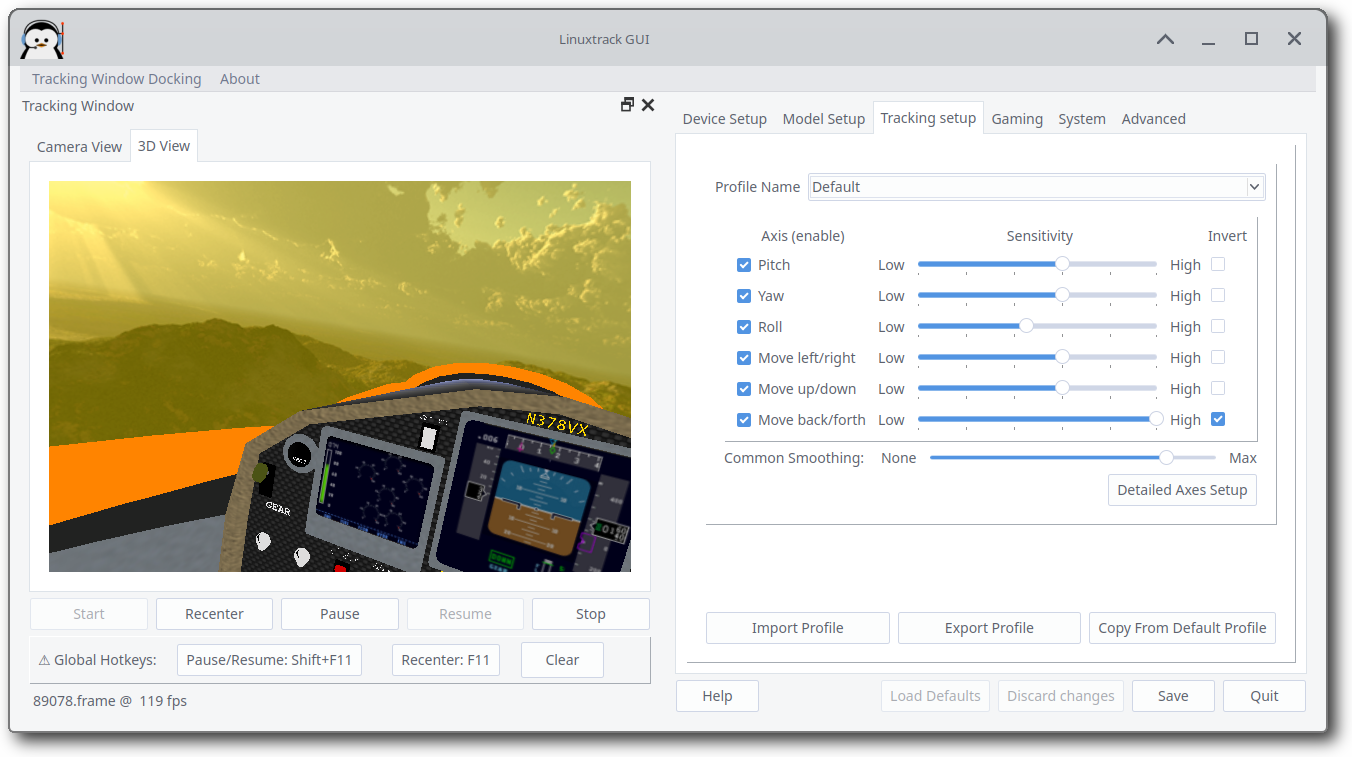
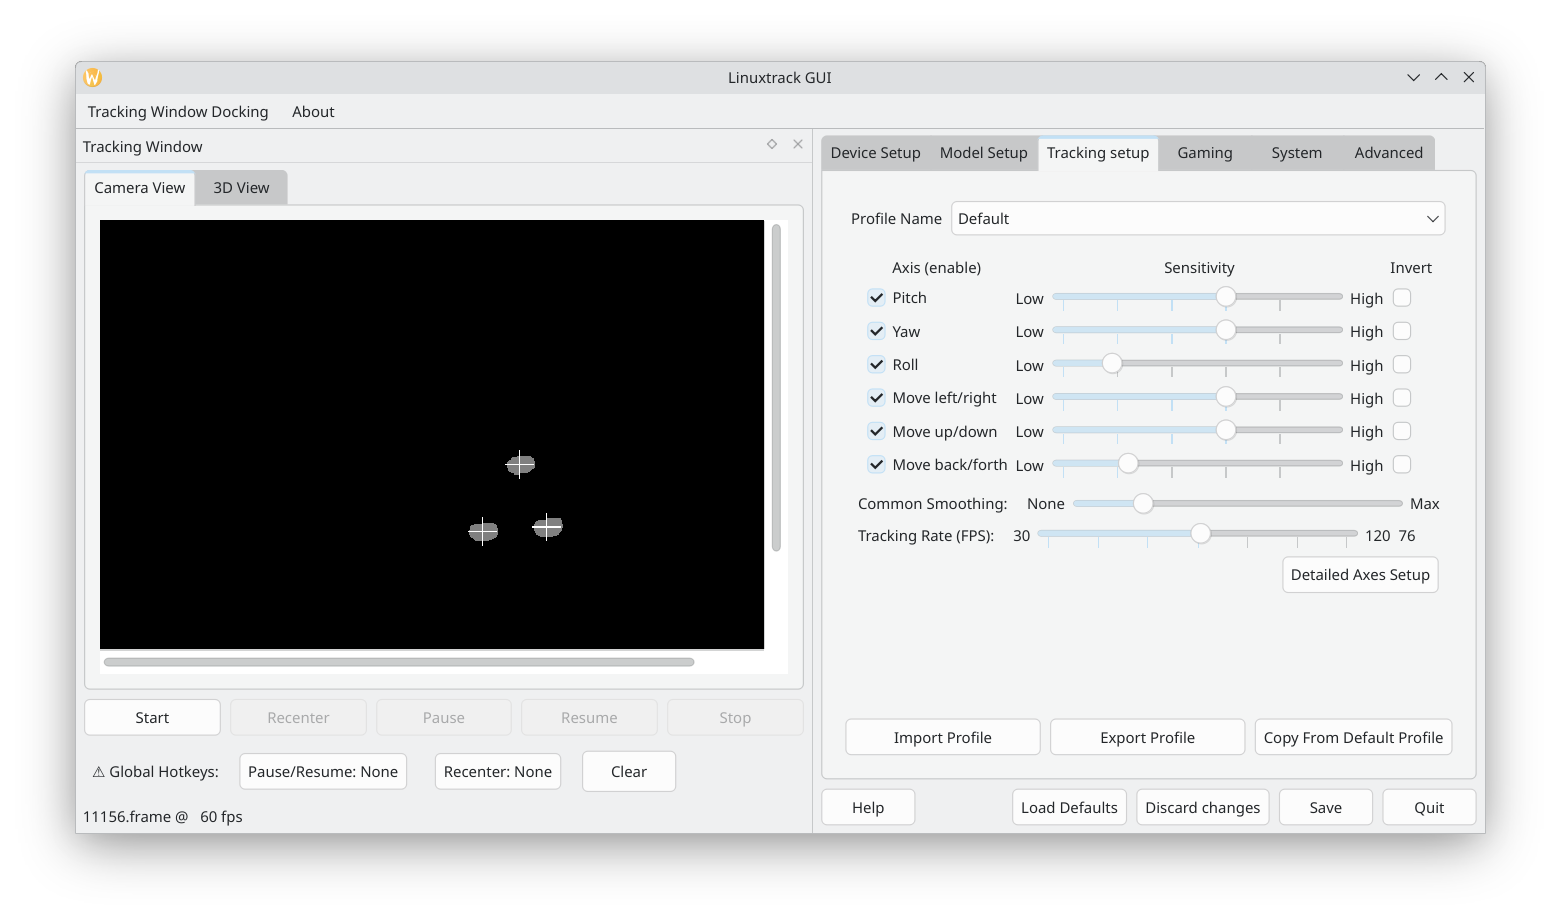
Add per-profile tracking rate (FPS) slider and help
- Tracking Setup: slider 30-120 FPS (default 120), per-profile prefs key
- Throttle newFrame/newPose together so preview FPS matches setting
- Profile import/export format v2 with optional FPS; fix profile_setup merge issues
- Update in-app help (axes_setup, misc) and Tracking.png

diff --git a/src/qt_gui/help/axes_setup.htm b/src/qt_gui/help/axes_setup.htm
@@ -29,6 +29,7 @@
 <li>Sensitivity controls allow you to change control responsiveness - the higher the sensitivity is, the more responsive the particular axis will be.</li>
 <li>Check-box on the right side allows you to invert the axis response.</li>
 <li><strong>Common smoothing</strong> slider allows you to set the amount of smoothing applied to all axes.</li>
+<li><strong>Tracking rate (FPS)</strong> sets how often head pose and the camera preview in the Tracking window are updated each second (30–120&nbsp;FPS; default 120). The value is saved per profile. Lower rates reduce CPU usage and how often games or clients receive pose updates; they do not change the camera hardware frame rate.</li>
 <li><strong>Detailed axes setup</strong> button opens a dialog allowing you to set all aspects of all the axes.</li>
 <li><strong>Import profile</strong> button imports all settings in the current profile from a file.</li>
 <li><strong>Export profile</strong> button exports current profile to a file.</li>

diff --git a/src/qt_gui/help/misc.htm b/src/qt_gui/help/misc.htm
@@ -111,6 +111,7 @@
 <ul>
 <li>Adjust focal length if tracking seems inaccurate</li>
 <li>Use legacy computation methods if experiencing issues with newer algorithms</li>
+<li>Lower <strong>Tracking rate (FPS)</strong> on the Tracking setup tab if you want fewer pose/preview updates and less CPU use</li>
 <li>Disable preview windows if you don't need them</li>
 </ul>
 

diff --git a/src/qt_gui/tracker.cpp b/src/qt_gui/tracker.cpp
@@ -13,6 +13,7 @@
 #include <QApplication>
 #include <QMessageBox>
 #include <QTimer>
+#include <QDateTime>
 
 Tracker *Tracker::trr = NULL;
 char *com_fname = NULL;
@@ -83,9 +84,9 @@ buffering *Tracker::getBuffers()
   return &buf;
 }
 
-
 Tracker::Tracker() : axes(LTR_AXES_T_INITIALIZER), axes_valid(false),
-  currentProfile(QString::fromUtf8("Default")), common_ff(0.0)
+  currentProfile(QString::fromUtf8("Default")), common_ff(0.0), trackingRateFps(120),
+  trackingRateLastEmitUs_(0), trackingEmitThisCycle_(false)
 {
   if(!ltr_int_gui_lock(true)){
     QMessageBox::warning(NULL, QObject::tr("Linuxtrack"),
@@ -121,18 +122,41 @@ void Tracker::signalStateChange(linuxtrack_state_type current_state)
   emit stateChanged(current_state);
 }
 
+bool Tracker::trackingRateGateOpen()
+{
+  if(trackingRateFps >= 120){
+    return true;
+  }
+  const qint64 min_interval_us = 1000000LL / trackingRateFps;
+  const qint64 t = QDateTime::currentMSecsSinceEpoch() * 1000;
+  if(t - trackingRateLastEmitUs_ < min_interval_us){
+    return false;
+  }
+  trackingRateLastEmitUs_ = t;
+  return true;
+}
+
 void Tracker::signalNewFrame(struct frame_type *frame)
 {
+  // Same gate as pose: camera FPS counter and preview follow profile rate (see signalNewPose).
+  trackingEmitThisCycle_ = trackingRateGateOpen();
+  if(!trackingEmitThisCycle_){
+    return;
+  }
   emit newFrame(frame);
 }
 
 void Tracker::signalNewPose(linuxtrack_full_pose_t *full_pose)
 {
+  if(!trackingEmitThisCycle_){
+    return;
+  }
+  trackingEmitThisCycle_ = false;
+
   static linuxtrack_pose_t processed;
   static linuxtrack_pose_t unfiltered;
   processed = full_pose->pose;
   ltr_int_postprocess_axes(axes, &processed, &unfiltered);
-  //std::cout<<"TRACKER: "<<pose->pitch<<" "<<unfiltered.pitch<<" "<<processed.pitch<<"\n";
   emit newPose(full_pose, &unfiltered, &processed);
 }
 
@@ -179,10 +203,24 @@ void Tracker::setProfile(QString p)
     if(common_ff > ffs[i]){
       common_ff = ffs[i];
     }
+
   }
   for(i = PITCH; i <= TZ; ++i){
     ffs[i] -= common_ff;
   }
+
+  // Load tracking rate from profile prefs (default 120)
+  {
+    int tr = 120;
+    if(ltr_int_get_key_int(profileSection.toUtf8().constData(), "TrackingRateFps", &tr)){
+      trackingRateFps = tr;
+    }else{
+      trackingRateFps = 120;
+    }
+    if(trackingRateFps < 30) trackingRateFps = 30;
+    if(trackingRateFps > 120) trackingRateFps = 120;
+  }
+  
   axes_valid = true;
   emit initAxes();
 }
@@ -318,4 +356,18 @@ float Tracker::getCommonFilterFactor()
   return common_ff;
 }
 
+int Tracker::getTrackingRateFps()
+{
+  return trackingRateFps;
+}
+
+void Tracker::setTrackingRateFps(int fps)
+{
+  if(fps < 30) fps = 30;
+  if(fps > 120) fps = 120;
+  trackingRateFps = fps;
+  ltr_int_change_key_int(profileSection.toUtf8().constData(), "TrackingRateFps", fps);
+  ltr_int_prefs_changed();
+  saveDebounceTimer->start(800);
+}
 

diff --git a/src/qt_gui/profile_setup.cpp b/src/qt_gui/profile_setup.cpp
@@ -1,6 +1,7 @@
 #include <QMessageBox>
 #include <QFileDialog>
 #include <QTextStream>
+#include <QSignalBlocker>
 #include "profile_setup.h"
 #include "scp_form.h"
 #include "tracker.cpp"
@@ -65,6 +66,9 @@ void ProfileSetup::connect()
   // Smoothing slider
   QObject::connect(ui.Smoothing, SIGNAL(valueChanged(int)), this, SLOT(on_Smoothing_valueChanged(int)));
   
+  // Tracking Rate slider
+  QObject::connect(ui.TrackingRate, SIGNAL(valueChanged(int)), this, SLOT(on_TrackingRate_valueChanged(int)));
+  
   // Detailed Axis Setup button
   QObject::connect(ui.DetailedAxisSetup, SIGNAL(pressed()), this, SLOT(on_DetailedAxisSetup_pressed()));
 }
@@ -111,6 +115,13 @@ void ProfileSetup::initAxes()
   ui.TySens->setValue(TRACKER.axisGet(TY, AXIS_MULT) * 12.0);
   ui.TzSens->setValue(TRACKER.axisGet(TZ, AXIS_MULT) * 12.0);
   ui.Smoothing->setValue(TRACKER.getCommonFilterFactor() * ui.Smoothing->maximum());
+
+  int fps = TRACKER.getTrackingRateFps();
+  {
+    QSignalBlocker block(ui.TrackingRate);
+    ui.TrackingRate->setValue(fps);
+    ui.TrackingRateValue->setText(QString::number(fps));
+  }
 }
 
 
@@ -143,8 +154,15 @@ void ProfileSetup::axisChanged(int axis, int elem)
 
 void ProfileSetup::setCommonFF(float val)
 {
-  //std::cout<<"Setting common ff "<<val<<"\n";
   ui.Smoothing->setValue(val * ui.Smoothing->maximum());
+}
+
+void ProfileSetup::on_TrackingRate_valueChanged(int val)
+{
+  if(!initializing){
+    TRACKER.setTrackingRateFps(val);
+    ui.TrackingRateValue->setText(QString::number(val));
+  }
 }
 
 void ProfileSetup::on_PitchEnable_stateChanged(int state)
@@ -269,12 +287,17 @@ void ProfileSetup::importProfile(QTextStream &tf)
       TRACKER.axisChange((axis_t)i, (axis_param_t)j, fval);
     }
   }
+  if (!tf.atEnd()) {
+    int trackingRate = 120;
+    tf >> trackingRate;
+    TRACKER.setTrackingRateFps(trackingRate);
+  }
 }
 
 void ProfileSetup::exportProfile(QTextStream &tf)
 {
   tf<<profileName<<"\n";
-  tf<<"1"<<"\n"; //Version of the profile format
+  tf<<"2"<<"\n";
   tf<<TRACKER.getCommonFilterFactor()<<"\n";
   for(int i = PITCH; i <= TZ; ++i){
     tf<<(TRACKER.axisGetBool((axis_t)i, AXIS_ENABLED) ? QString::fromUtf8("1") : QString::fromUtf8("0"))<<
@@ -286,6 +309,6 @@ void ProfileSetup::exportProfile(QTextStream &tf)
     }
     tf<<TRACKER.axisGet((axis_t)i, AXIS_FILTER)<<"\n";
   }
+  tf<<TRACKER.getTrackingRateFps()<<"\n";
 }
-
 

diff --git a/src/qt_gui/tracker.h b/src/qt_gui/tracker.h
@@ -38,9 +38,12 @@ class Tracker : public QObject{
   bool axisIsSymetrical(axis_t axis);
   bool setCommonFilterFactor(float c_f);
   float getCommonFilterFactor();
+  int getTrackingRateFps();
+  void setTrackingRateFps(int fps);
   void fromDefault();
   static buffering *getBuffers();
  private:
+  bool trackingRateGateOpen();
   Tracker();
   ~Tracker();
   static Tracker *trr;
@@ -52,6 +55,9 @@ class Tracker : public QObject{
   QString profileSection;
   float common_ff;
   float ffs[6];
+  int trackingRateFps;
+  qint64 trackingRateLastEmitUs_;
+  bool trackingEmitThisCycle_;
  public slots:
   void start(QString &section);
   void pause();
@@ -70,4 +76,6 @@ class Tracker : public QObject{
 };
 
 #endif
+
+
 

diff --git a/src/qt_gui/profile_setup.h b/src/qt_gui/profile_setup.h
@@ -47,9 +47,11 @@ class ProfileSetup : public QWidget
    void on_TySens_valueChanged(int val);
    void on_TzSens_valueChanged(int val);
    void on_Smoothing_valueChanged(int val);
+   void on_TrackingRate_valueChanged(int val);
    void axisChanged(int axis, int elem);
    void setCommonFF(float val);
    void initAxes();
 };
 
 #endif
+
